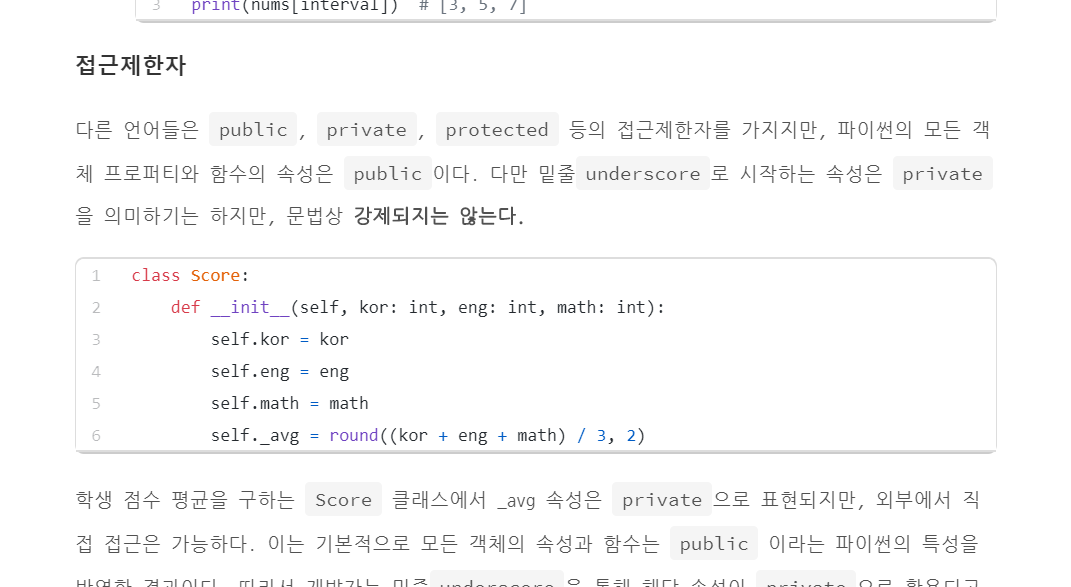
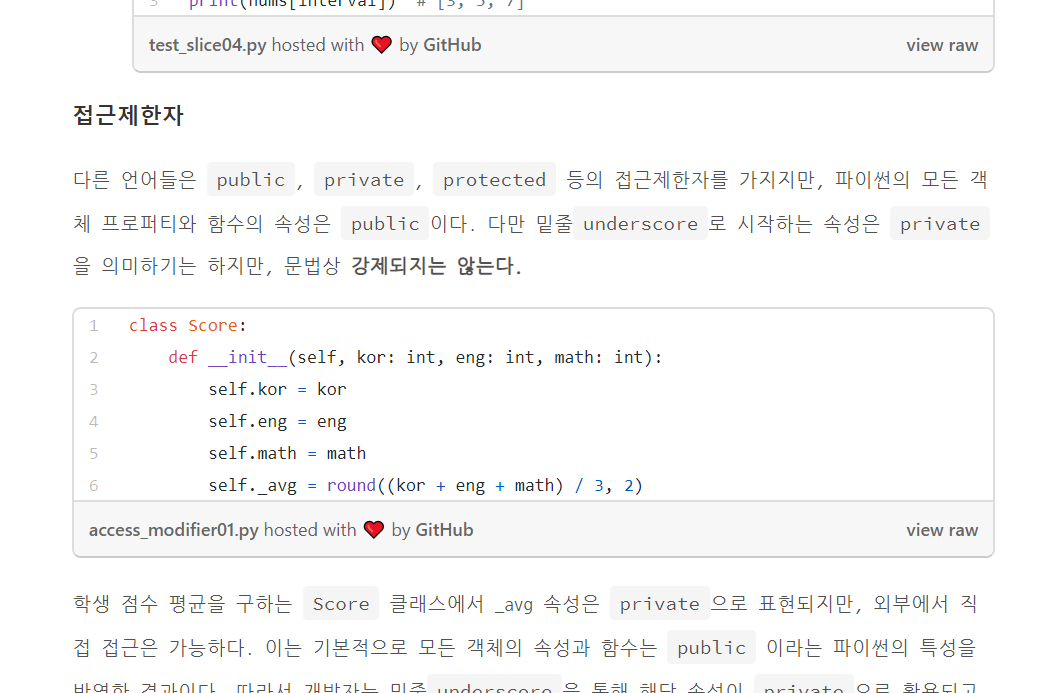
post: Show gist meta

Changed region(s): [[0.0623, 0.4293, 0.9348, 0.9506], [0.0623, 0.0, 0.9348, 0.3986], [0.0623, 0.9813, 0.9348, 1.0]]

diff --git a/assets/css/main.css b/assets/css/main.css
@@ -447,10 +447,6 @@ th, td {
   text-align: left;
 }
 
-.gist .gist-meta { /* 200801 */
-	display: none !important;
-}
-
 /*
   Social media icons
 */
